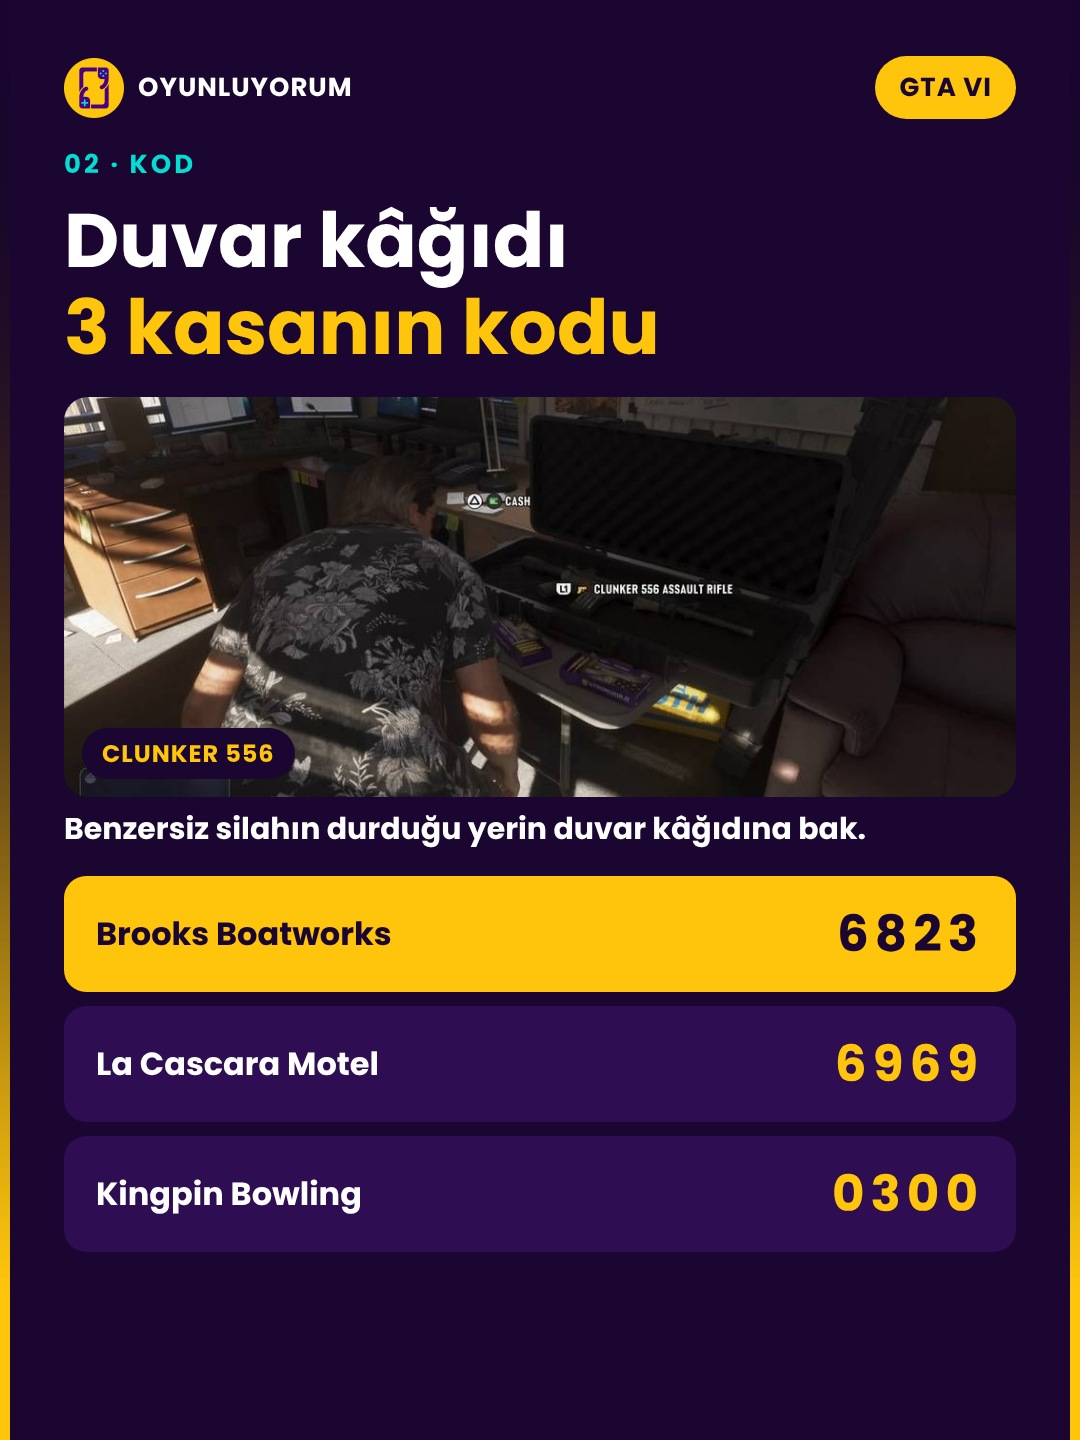
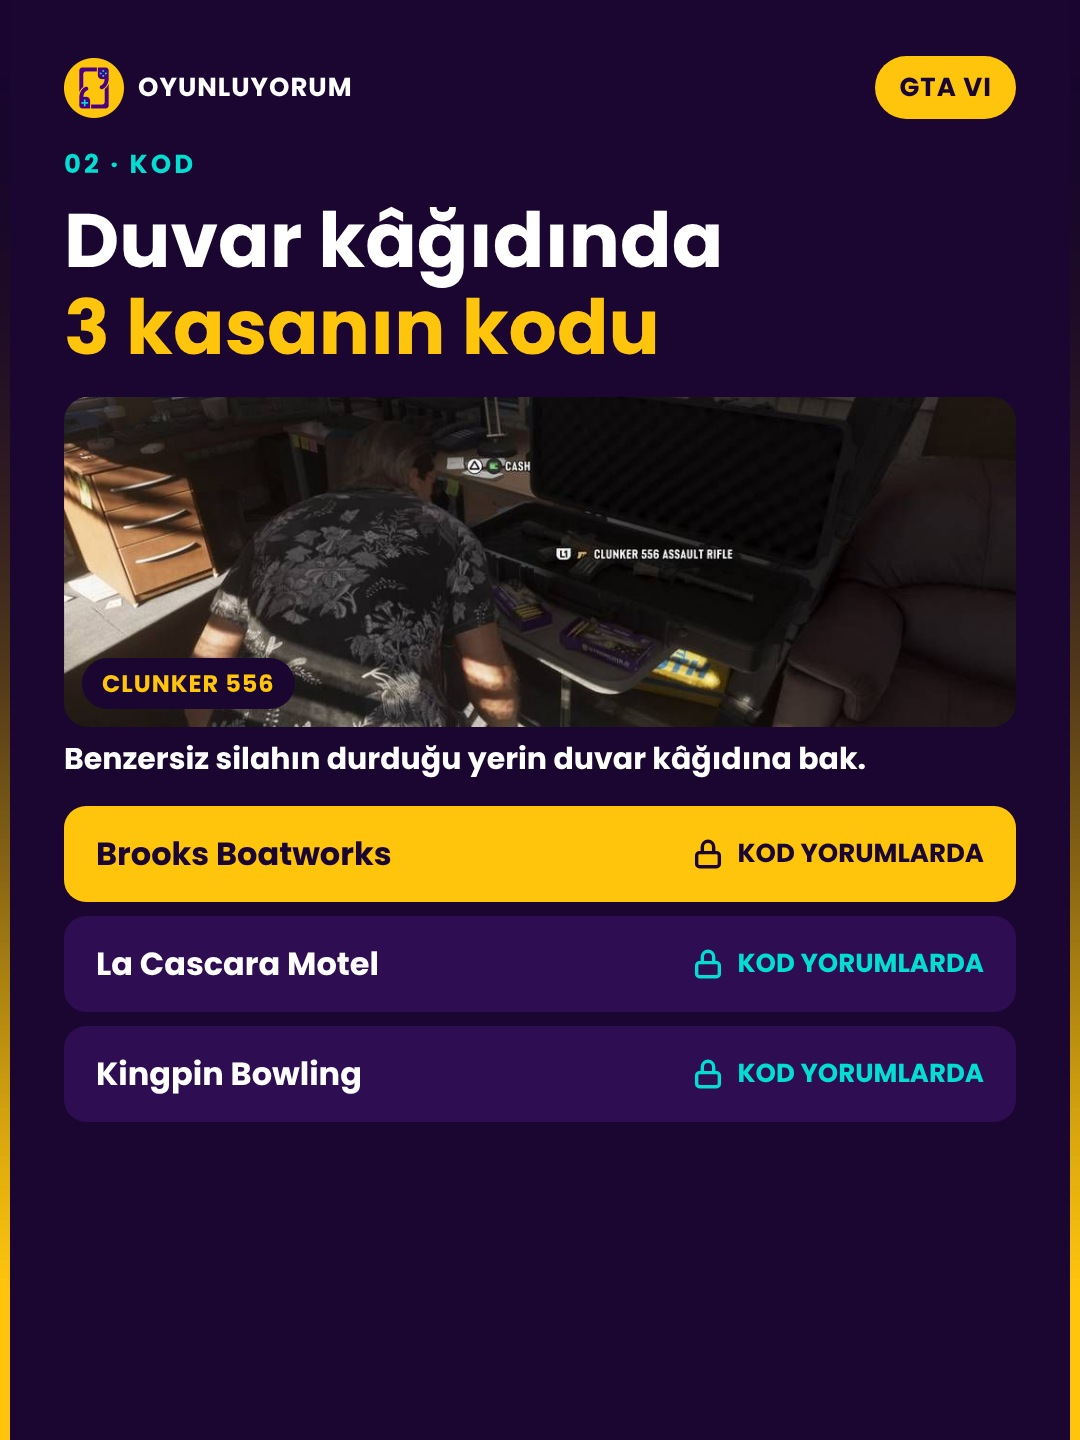
Brooks karuseli: kodlar görselden çıkarıldı
Claude-Session: https://claude.ai/code/session_01Cfy9VgEXWVL5ta7MT2PpLs

Changed region(s): [[0.0611, 0.25, 0.9472, 0.875], [0.5194, 0.1562, 0.6722, 0.1875], [0.825, 0.2812, 0.8861, 0.3125]]

diff --git a/posts/2026-11-23-gta6-brooks-boatworks/aciklama.md b/posts/2026-11-23-gta6-brooks-boatworks/aciklama.md
@@ -6,12 +6,12 @@ Kaynak: Game Rant (Nahda Nabiilah, 20 Kasım 2026). Format: 5 slayt karusel, 108
 
 GTA 6'da terk edilmiş bir tersane kasa kodunu duvarında saklıyor 🔐
 
-Benzersiz Clunker 556, para dolu kasa ve bedava turuncu 4x4. Üstüne duvar kâğıdında 3 kasanın kodu var. Brooks Boatworks'ünki hangisi? 👇
+Benzersiz Clunker 556, para dolu kasa ve bedava turuncu 4x4. Üstüne duvar kâğıdında 3 kasanın kodu var. Kodları yoruma bıraktım 👇
 Tersaneye beraber gireceğin arkadaşına gönder.
 
 #gta6 #gtavi #gta6türkiye #rockstargames #kasakodu #oyun #oyunluyorum
 
 ## Notlar
-- Kodlar: Brooks Boatworks 6823, La Cascara Motel 6969, Kingpin Bowling 0300.
+- Görsellerde kod yok, yorumda paylaşılacak. Kodlar: Brooks Boatworks 6823, La Cascara Motel 6969, Kingpin Bowling 0300.
 - Makale polisin yetişmeyeceğini söylüyor ama sayfa açıklaması şiddetsiz kaçış vaat ediyor, slaytlarda bu iddiaya girilmedi.
 - Durum: paylaşılmadı.
